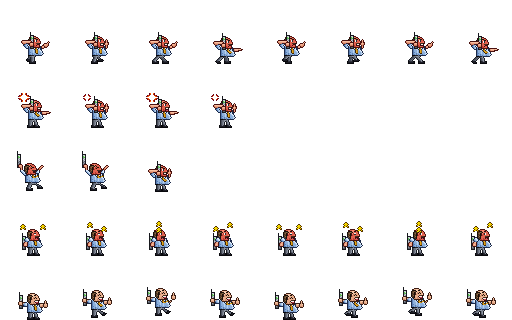
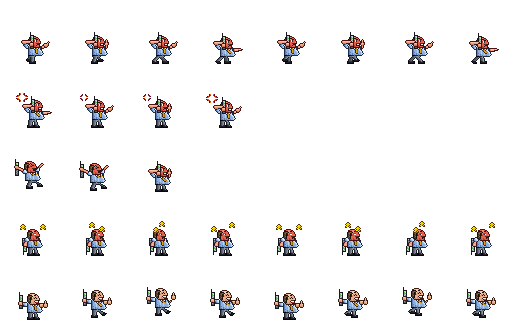
feat(looks): give the Terraria customer a yell, a real knockback and a limp phone
Review of the animated customer found the shout was the walk's own arm
toggle stood still, with only the emote telling the windup; the hurt
lifted him a single pixel and threw the phone up into the frustration
pips; the stunned phone stood rigid and upright although it was meant to
dangle; and the two Dazed stars stacked one over the other twice a loop.

- shout: the yell lunges a pixel past his walking lean with the chin
  thrust out, then he settles, rocks back drawing breath and sinks into
  the next yell; the anger emote swells with it and floats 3 px clear of
  the antenna. The first frame stays the yell the bubble leaves on.
- hurt: knocked 3 px off his feet, then 1, then he lands with a stomp;
  the near arm yanks the phone out behind him at arm's length, gripped by
  its middle so its tip stays below the pips.
- stunned: the phone hangs upside down from the limp hand, antenna to
  the ground, its lower end lagging a frame behind his sway; the lid
  droops over an eye rolling up and back and the jaw hangs slack; the
  star orbit is tilted so the two stars are always a star apart across.

Tests hold the star spacing, the upside-down phone, the knockback's
descent and the yell's lunge.

diff --git a/tools/looks/terraria/customer/customer_kit/on_the_phone.py b/tools/looks/terraria/customer/customer_kit/on_the_phone.py
@@ -93,19 +93,19 @@ FACES: Dict[str, Drawing] = {
 '''),
 }
 
-# Stunned, the eye rolls round its socket, a pupil's step a frame, the brows flat and the jaw hanging, the
-# tongue lolling out of its corner.
-ROLL = {'up': ('ii', 'ww'), 'front': ('wi', 'wi'), 'down': ('ww', 'ii'), 'back': ('iw', 'iw')}
-for _look, (_upper, _lower) in ROLL.items():
+# Stunned, the lid drooping half over the eye as it rolls up out of sight and back, the brows flat and the jaw
+# hanging slack, the tongue lolling out of its corner.
+ROLL = {'up': 'ww', 'front': 'wi', 'back': 'iw'}
+for _look, _eye in ROLL.items():
     FACES[f'dazed {_look}'] = art(f'face dazed, looking {_look}', 18, 14, f'''
                      OO...
                      .....
-                     {_upper}...
-                     {_lower}...
+                     SS...
+                     {_eye}...
                      .....
                      .dddO
-                     .MMM.
-                     .MqM.
+                     ..MM.
+                     ..Mq.
                      ...q.
 ''')
 
@@ -319,21 +319,18 @@ NEAR_ARMS: Dict[str, Drawing] = {
                      .....#o+#.....
                      ......##......
 ''', shoulder=(10, 22), hand=(14, 19)),
-    # Knocked off his ear by a hit, the phone flung up behind him.
-    'phone flung': art('near arm flung up with the phone', 3, 13, '''
-                     ..KKK.........
-                     .KsLsK........
-                     .KsssK........
-                     ..KSsK........
-                     ...KsK........
-                     ...KsK........
-                     ...#**#.......
-                     ...#o+*#......
-                     ....#o+*#.....
-                     .....#o+#.....
-                     ......#o+#....
-                     .......####...
-''', shoulder=(10, 22), hand=(4, 15)),
+    # Knocked off his ear by a hit, the phone yanked out behind him at arm's length, the elbow straight.
+    'phone flung': art('near arm flung back with the phone', 0, 16, '''
+                     .KKK..........
+                     KsLsK.........
+                     KsssSKK.......
+                     .KSSsLsKK.....
+                     ..KKKSsLsK##..
+                     .....KKSs#**#.
+                     .......K#o+*+#
+                     ........#xo+*#
+                     .........####.
+''', shoulder=(10, 22), hand=(2, 18)),
     # Won over, the call held out at arm's length: I'll call you back.
     'phone out': art('near arm holding the phone out', 2, 20, '''
                      .KKK......
@@ -486,14 +483,42 @@ PHONE = Prop(art('brick phone', 13, 8, '''
                      0000
 ''', legend=PHONE_LEGEND, grip=(14, 19)))
 
-# Jolted off his ear, held by its foot.
-PHONE_FLUNG = Prop(PHONE.drawing._replace(name='brick phone held by its foot', points=(('grip', (14, 23)),)))
-# Slack in a limp hand, hanging at his side.
-PHONE_DANGLING = Prop(PHONE.drawing._replace(name='brick phone hanging slack', points=(('grip', (16, 19)),)))
+# Jolted off his ear, his fist round its middle, clear of whatever the game shows over his head.
+PHONE_FLUNG = Prop(PHONE.drawing._replace(name='brick phone yanked off his ear', points=(('grip', (14, 16)),)))
+# Slack in a limp hand, hanging upside down at his side: the fingers gone loose round its middle, behind the
+# hand, its antenna pointing at the ground and its light still from above. Its lower end swings on the hand, a pixel behind his
+# sway, so the brick hangs heavy.
+DANGLING = art('brick phone hanging upside down', 13, 8, '''
+                     0000
+                     0330
+                     0120
+                     0210
+                     0120
+                     0210
+                     0120
+                     0230
+                     0320
+                     0230
+                     0440
+                     0540
+                     0230
+                     0000
+                     0...
+                     0...
+                     0...
+''', legend=PHONE_LEGEND, grip=(16, 14))
+# The rows the hand closes over and above stay put as the rest swings.
+DANGLING_PIVOT = 15
+PHONE_DANGLING = {
+    'phone dangling': Prop(DANGLING),
+    'phone swinging ahead': Prop(DANGLING.swung(DANGLING_PIVOT, 1)._replace(name='brick phone swinging ahead')),
+    'phone swinging back': Prop(DANGLING.swung(DANGLING_PIVOT, -1)._replace(name='brick phone swinging back')),
+}
 
 # Terraria's anger emote: a vein popping in four arcs round a cross. Terraria draws it in a white bubble, so
-# floating free over a busy street its arcs take their dark red on the outside, the red and orange within.
-VEIN = Effect(art('anger vein', 0, 5, '''
+# floating free over a busy street its arcs take their dark red on the outside, the red and orange within. It
+# floats up behind his head, clear of the phone's antenna as he lunges.
+VEIN = Effect(art('anger vein', -3, 5, '''
                      ...02..20...
                      ...01..10...
                      .011....110.
@@ -506,7 +531,7 @@ VEIN = Effect(art('anger vein', 0, 5, '''
 ''', legend=tones('anger', '012'), crown=(16, 12)))
 
 # Between yells, the emote shrinks back: it pulses.
-VEIN_SMALL = Effect(art('anger vein, pulsing', 2, 6, '''
+VEIN_SMALL = Effect(art('anger vein, pulsing', -1, 6, '''
                      ..0..0..
                      .01..10.
                      01....10
@@ -531,7 +556,7 @@ FIGURE = Figure(
     near_arms=NEAR_ARMS,
     far_arms=FAR_ARMS,
     sleeves=Dye(cloth='shirt-blue'),
-    props={'phone': PHONE, 'phone flung': PHONE_FLUNG, 'phone dangling': PHONE_DANGLING},
+    props={'phone': PHONE, 'phone flung': PHONE_FLUNG, **PHONE_DANGLING},
     effects={'vein': VEIN, 'vein small': VEIN_SMALL, **dazed.STARS},
     hair='hair-office',
     skin={'unhappy': 'skin-fuming', 'happy': 'skin-office'},

diff --git a/tools/looks/terraria/customer/customer_kit/moves.py b/tools/looks/terraria/customer/customer_kit/moves.py
@@ -8,12 +8,15 @@ as one, and timed to what the game holds each mood for (entities/customer/Custom
   and his jaw goes on complaining into the phone, so the gag never stops. The game stands a still customer on
   the frame it shows 1/6 s in, so that frame is a foot striking, both feet down.
 - `shout` yells for 0.4 s, one loop for the windup, and again as the complaint flies: the game restarts the
-  animation when the bubble leaves, so the first frame is the yell itself, its mouth where the bubble
-  leaves, and Terraria's anger emote pulses behind his head.
-- `hurt` is a Terraria knockback, 0.2 s of the 0.22 s the hit holds: knocked off his feet and back, the phone
-  jolted off his ear, eye screwed shut, his tie flung up; then he lands, the phone back at his ear.
-- `stunned` sways on the spot for the 3 s stun, the phone hanging upside down from a limp hand and the eye
-  rolling, Terraria's Dazed stars circling his head.
+  animation when the bubble leaves, so the first frame is the yell itself, a lunge with his chin thrust out,
+  its mouth where the bubble leaves; then he settles, rocks back drawing breath and sinks into the next yell,
+  Terraria's anger emote swelling with it behind his head.
+- `hurt` is a Terraria knockback, 0.2 s of the 0.22 s the hit holds: knocked 3 px off his feet and back, arms
+  thrown wide, the phone yanked off his ear, eye screwed shut, his tie flung up; then he comes down and lands
+  with a stomp, the phone back at his ear.
+- `stunned` sways on the spot for the 3 s stun, the phone hanging upside down from a limp hand and swinging a
+  frame behind him, the lid drooping over an eye that rolls up and back, the jaw slack, and Terraria's Dazed
+  stars circling his head.
 - `happy` hops for joy, two hops in the 0.8 s the game lets him cheer before he strolls off hopping: the
   call held away from his ear, a thumbs up bounced at you, his tie flying.
 """
@@ -64,35 +67,51 @@ def walk() -> Animation:
 
 
 # ── shout ──
-YELL = Pose(mood='unhappy', face='rant', near='phone', far='point', body=(LEAN, 0), head=(1, 0), held=ON_THE_PHONE,
-            effects=('vein',), swing='bounce')
+# The yell thrown at you: he lunges a pixel past his walking lean and thrusts his chin out, mouth wide, finger
+# out, and the anger emote at its biggest. The game restarts `shout` as the complaint leaves, so this is the
+# frame it leaves on.
+YELL = Pose(mood='unhappy', face='rant', near='phone', far='point', body=(LEAN + 1, 0), head=(1, 0),
+            held=ON_THE_PHONE, effects=('vein',), swing='bounce')
 
 
 def shout() -> Animation:
-    between = YELL._replace(face='rant half', far='wag', head=(0, 0), effects=('vein small',), swing='rest')
-    return Animation(10, True, (YELL, between, YELL._replace(swing='rest'), between))
+    """A yell and the breath for the next one, the windup's 0.4 s a loop: he settles back from the lunge, rocks
+    back upright drawing breath, then sinks into the next yell, the emote swelling with it."""
+    settle = YELL._replace(face='rant half', far='jab', body=(LEAN, 0), head=(0, 0), effects=('vein small',),
+                           swing='rest')
+    breath = settle._replace(face='grumble', far='wag', body=(0, 0))
+    build = settle._replace(body=(LEAN, 1), effects=('vein',))
+    return Animation(10, True, (YELL, settle, breath, build))
 
 
 # ── hurt ──
+# Knocked back and off his feet as Terraria throws a hit walker, 3 px up, then down to a pixel off the ground,
+# and he lands with a stomp, the phone back at his ear.
+KNOCK = (3, 1)
+
+
 def hurt() -> Animation:
     hit = Pose(mood='unhappy', face='wince', legs='knocked', near='phone flung', far='flung', body=(-2, 0),
-               head=(-1, 0), held=(Held('phone flung', 'near'),), lift=1, swing='fly')
+               head=(-1, 0), held=(Held('phone flung', 'near'),), lift=KNOCK[0], swing='fly')
     return Animation(15, False, (
         hit,
-        hit._replace(body=(-1, 0)),
+        hit._replace(body=(-1, 0), lift=KNOCK[1]),
         Pose(mood='unhappy', face='rant half', near='phone', far='wag', body=(0, 1), held=ON_THE_PHONE, swing='bounce'),
     ))
 
 
 # ── stunned ──
 SWAY = (0, 0, -1, -1, 0, 0, 1, 1)
-ROLLING = ('up', 'up', 'front', 'front', 'down', 'down', 'back', 'back')
+# The eye rolls up out of sight, round to the front, up again and to the back.
+ROLLING = ('up', 'up', 'front', 'front', 'up', 'up', 'back', 'back')
+# The phone's lower end lags a frame behind the sway: as he sways one way it swings the other, then catches up.
+SWINGING = {1: 'phone swinging ahead', 0: 'phone dangling', -1: 'phone swinging back'}
 
 
 def stunned() -> Animation:
     frames = tuple(
         Pose(mood='unhappy', face=f'dazed {look}', near='limp', far='limp', body=(sway, 0), head=(sway, 1),
-             held=(Held('phone dangling', 'near'),), effects=dazed.pair(index))
+             held=(Held(SWINGING[SWAY[index - 1] - sway], 'near'),), effects=dazed.pair(index))
         for index, (sway, look) in enumerate(zip(SWAY, ROLLING))
     )
     return Animation(10, True, frames)

diff --git a/tools/looks/terraria/customer/tests/test_customer.py b/tools/looks/terraria/customer/tests/test_customer.py
@@ -177,6 +177,34 @@ class Motion(unittest.TestCase):
         for posed in ANIMATIONS['stunned'].frames:
             self.assertEqual(len(posed.effects), 2)
 
+    def test_never_stands_one_star_over_the_other(self) -> None:
+        """The orbit is tilted, so the two stars a frame shows are always a star's width apart across."""
+        for index, posed in enumerate(ANIMATIONS['stunned'].frames):
+            near, far = (dazed.station(int(name.split()[-1]))[0] for name in posed.effects)
+            self.assertGreaterEqual(abs(near - far), dazed.SIZE, f'stunned[{index}]')
+
+    def test_hangs_the_stunned_phone_upside_down(self) -> None:
+        """The antenna, the phone's one-pixel column, points at the ground from a limp hand and up from any other."""
+        dangling = {held.prop for posed in ANIMATIONS['stunned'].frames for held in posed.held}
+        for name, prop in on_the_phone.FIGURE.props.items():
+            widths: Dict[int, int] = {}
+            for _, y, _ in prop.drawing.pixels:
+                widths[y] = widths.get(y, 0) + 1
+            antenna = [y for y, width in widths.items() if width == 1]
+            grip = prop.drawing.point('grip')[1]
+            self.assertTrue(antenna, name)
+            self.assertTrue(all((y > grip) == (name in dangling) for y in antenna), name)
+
+    def test_is_knocked_off_his_feet_and_comes_down_to_land(self) -> None:
+        lifts = [posed.lift for posed in ANIMATIONS['hurt'].frames]
+        self.assertGreaterEqual(lifts[0], 2)
+        self.assertEqual(lifts, sorted(lifts, reverse=True))
+        self.assertEqual(lifts[-1], 0)
+
+    def test_lunges_past_his_walk_to_yell(self) -> None:
+        yell, walk = ANIMATIONS['shout'].frames[0], ANIMATIONS['walk'].frames[STANDING]
+        self.assertGreater(yell.body[0] + yell.head[0], walk.body[0] + walk.head[0])
+
     def test_yells_on_the_first_frame_of_a_shout(self) -> None:
         """The game restarts `shout` as the complaint leaves, so its first frame is the yell."""
         first = ANIMATIONS['shout'].frames[0]

diff --git a/tools/looks/terraria/customer/customer_kit/dazed.py b/tools/looks/terraria/customer/customer_kit/dazed.py
@@ -3,7 +3,8 @@
 The star is the one on Terraria's Dazed debuff icon in its own colours, its two inner shades drawn as one so
 a stunned frame keeps to the palette's cap. Two of them circle
 the head on a flat orbit, opposite each other, passing behind the head on the far half of it and in front of
-the face on the near half. `STARS` holds a star at each of the orbit's eight stations as an effect hung from
+the scalp on the near half. The orbit is tilted, its far side over the face and its near side over the back of
+the head, so the two stars never stand one above the other as they pass over and in front of the crown. `STARS` holds a star at each of the orbit's eight stations as an effect hung from
 the crown; a frame of `stunned` names the two it shows.
 """
 from __future__ import annotations
@@ -28,6 +29,8 @@ STATIONS = 8
 # The orbit's middle, from the crown, and its half width and half height.
 MIDDLE = (1, -2)
 RADII = (10, 3)
+# How far the orbit's near point leans back, and its far point forward, from straight over the crown.
+TILT = 3
 CROWN = (16, 12)
 
 
@@ -35,7 +38,7 @@ def station(index: int) -> Tuple[int, int]:
     """Where the star at `index` is centred in design space, on a head whose crown is at CROWN: 0 is in front of
     the face, and the stations go round past the viewer, behind the head and over its far side."""
     angle = 2 * math.pi * index / STATIONS
-    x = CROWN[0] + MIDDLE[0] + RADII[0] * math.cos(angle)
+    x = CROWN[0] + MIDDLE[0] + RADII[0] * math.cos(angle) - TILT * math.sin(angle)
     y = CROWN[1] + MIDDLE[1] + RADII[1] * math.sin(angle)
     return math.floor(x + 0.5), math.floor(y + 0.5)
 

diff --git a/tools/looks/terraria/customer/customer_kit/art.py b/tools/looks/terraria/customer/customer_kit/art.py
@@ -74,6 +74,11 @@ class Drawing(NamedTuple):
             tuple((key, (x + dx, y + dy)) for key, (x, y) in self.points),
         )
 
+    def swung(self, below: int, dx: int) -> 'Drawing':
+        """The drawing with every row under row `below` moved `dx` across, as if it swung on that row: a pixel's
+        lag of a dangling end is how Terraria tilts a hanging thing without redrawing it."""
+        return self._replace(pixels=tuple((x + dx if y > below else x, y, tone) for x, y, tone in self.pixels))
+
     def placed(self, joint: str, at: Point) -> 'Drawing':
         """The drawing moved so its point `joint` lands on `at`."""
         x, y = self.point(joint)
